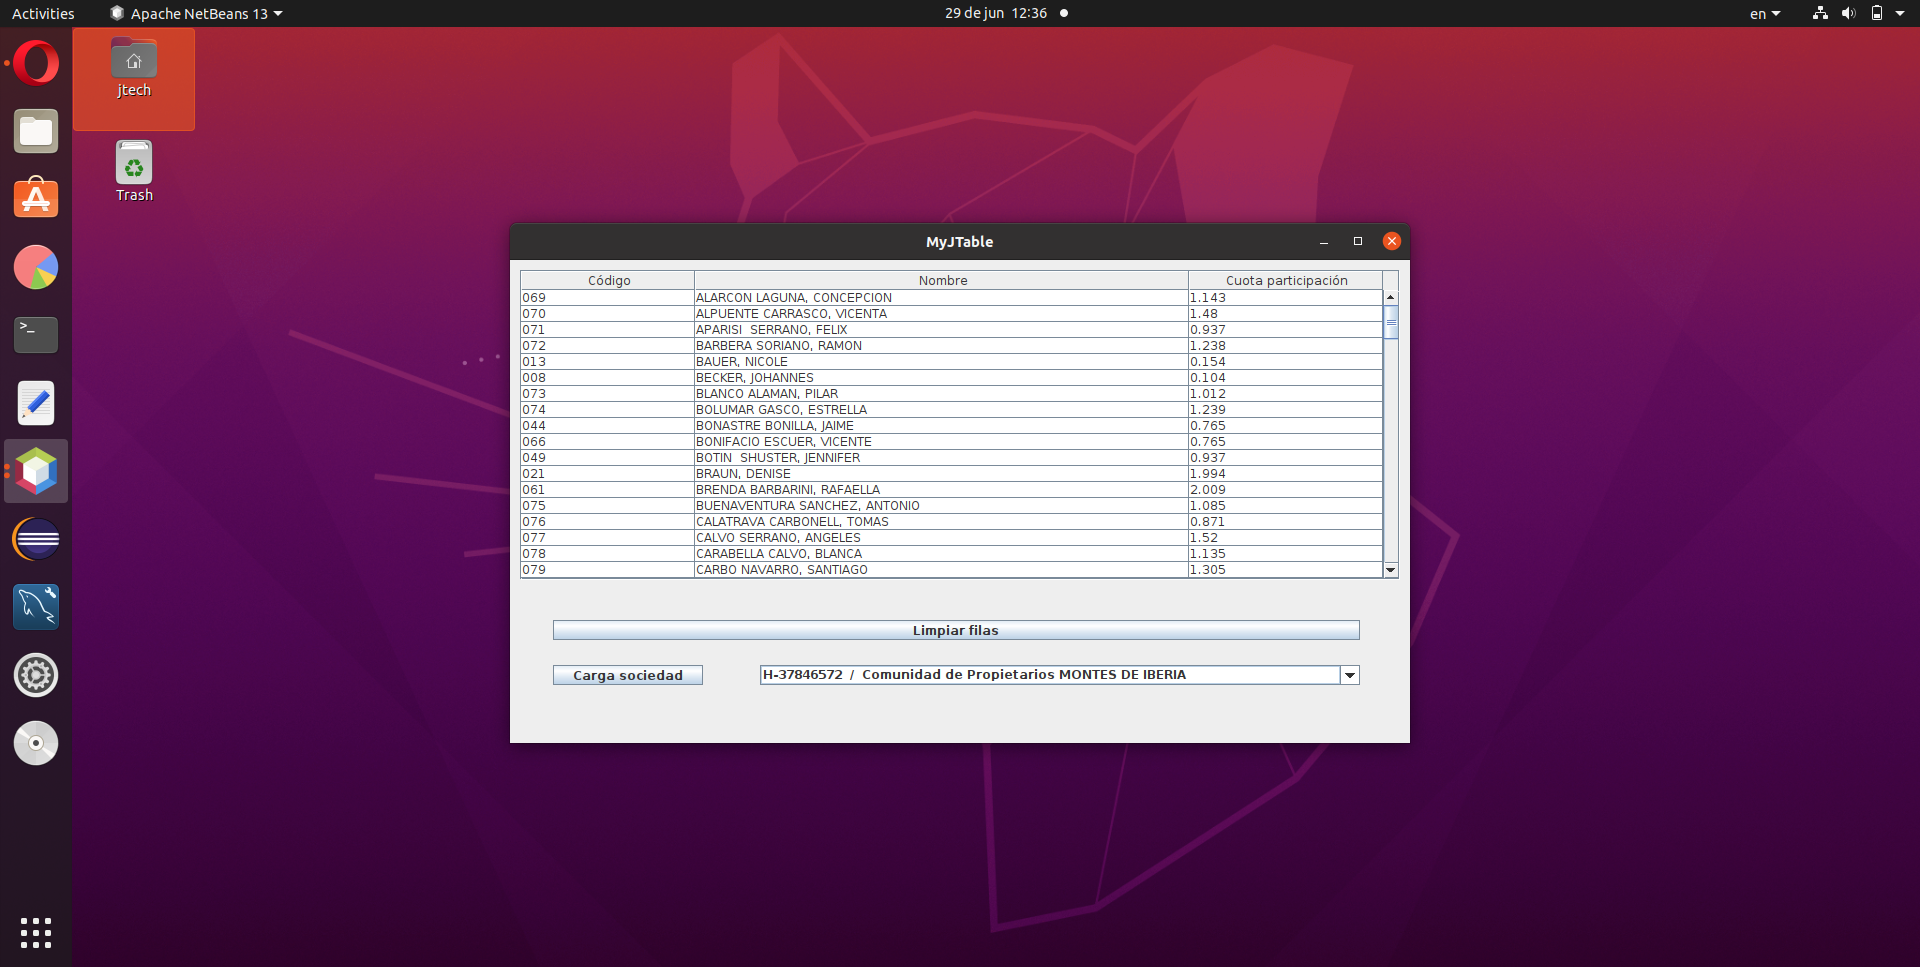
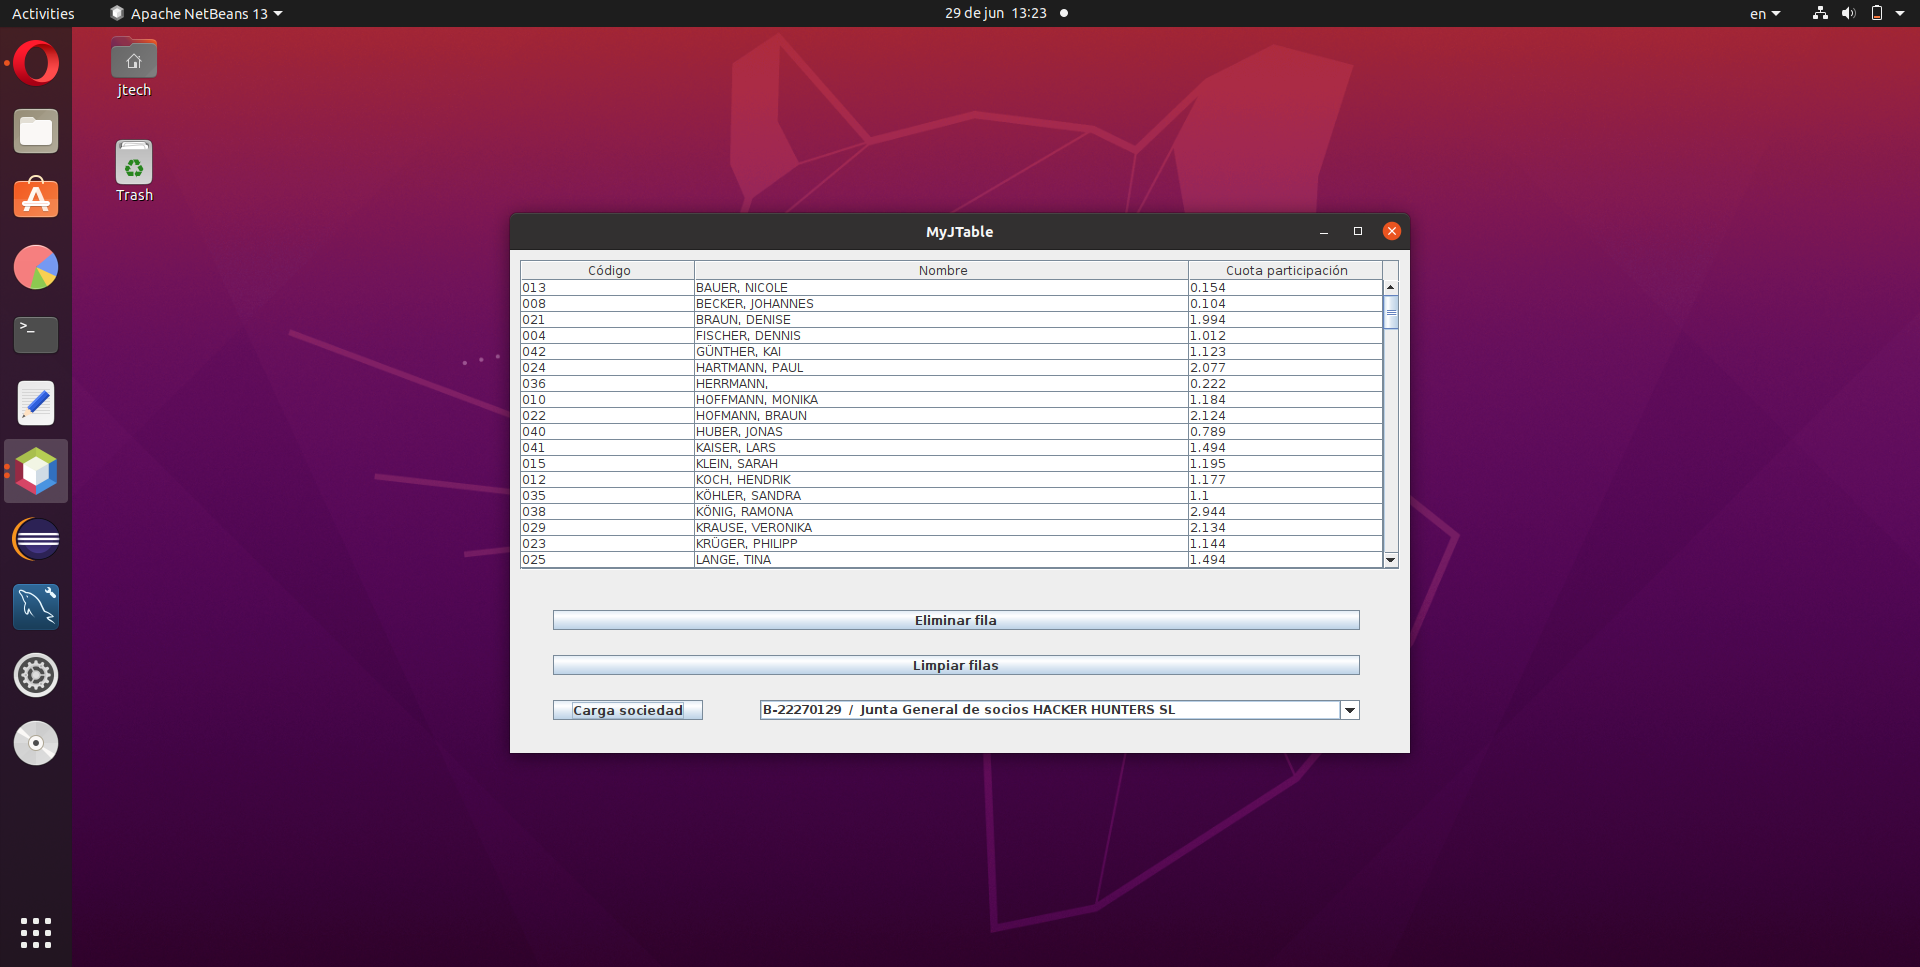
delete row

Changed region(s): [[0.25, 0.2172, 0.75, 0.8066], [0.0312, 0.031, 0.125, 0.1551]]

diff --git a/src/presentacion/MyJTable.java b/src/presentacion/MyJTable.java
@@ -39,7 +39,7 @@ public class MyJTable extends JFrame {
         try{
             contexto = new Contexto("usuario1", obtenerIP());
             repositorio = new RepositorioXML().cargar();
-            setSize(900, 520);
+            setSize(900, 540);
             setTitle("MyJTable");
             
             /*manual interface positioning*/
@@ -96,18 +96,23 @@ public class MyJTable extends JFrame {
         columna[2] = componentes.getjTable().getColumnModel().getColumn(2);
         columna[2].setPreferredWidth(50);
         
-        componentes.setBotonEliminarRegistros(new JButton("Limpiar filas"));
-        componentes.getBotonEliminarRegistros().setBounds(43, 360, 807, 20);
-        componentes.getBotonEliminarRegistros().addActionListener(gestorEventos);     // REGISTRO DE ESCUCHA DE EVENTO DE BOTON
-        add(componentes.getBotonEliminarRegistros());
+        componentes.setBotonEliminarFila(new JButton("Eliminar fila"));
+        componentes.getBotonEliminarFila().setBounds(43, 360, 807, 20);
+        componentes.getBotonEliminarFila().addActionListener(gestorEventos);     // REGISTRO DE ESCUCHA DE EVENTO DE BOTON
+        add(componentes.getBotonEliminarFila());
+        
+        componentes.setBotonLimpiarFilas(new JButton("Limpiar filas"));
+        componentes.getBotonLimpiarFilas().setBounds(43, 405, 807, 20);
+        componentes.getBotonLimpiarFilas().addActionListener(gestorEventos);     // REGISTRO DE ESCUCHA DE EVENTO DE BOTON
+        add(componentes.getBotonLimpiarFilas());
         
         componentes.setBotonCargaSociedad(new JButton("Carga sociedad"));
-        componentes.getBotonCargaSociedad().setBounds(43, 405, 150, 20);
+        componentes.getBotonCargaSociedad().setBounds(43, 450, 150, 20);
         componentes.getBotonCargaSociedad().addActionListener(gestorEventos);     // REGISTRO DE ESCUCHA DE EVENTO DE BOTON
         add(componentes.getBotonCargaSociedad());
         
         componentes.setSeleccionIdSociedad(new JComboBox());
-        componentes.getSeleccionIdSociedad().setBounds(250, 405, 600, 20);
+        componentes.getSeleccionIdSociedad().setBounds(250, 450, 600, 20);
         componentes.getSeleccionIdSociedad().setBackground(Color.white);
         add(componentes.getSeleccionIdSociedad());
         cargarComboSociedades(componentes);

diff --git a/src/presentacion/Componentes.java b/src/presentacion/Componentes.java
@@ -25,7 +25,8 @@ public class Componentes {
         private JComboBox seleccionIdSociedad;
         private MyJTable pantallaJTable;
         private JButton botonCargaSociedad;
-        private JButton botonEliminarRegistros;
+        private JButton botonLimpiarFilas;
+        private JButton botonEliminarFila;
 
     public JTable getjTable() {
         return jTable;
@@ -99,13 +100,22 @@ public class Componentes {
         this.botonCargaSociedad = botonCargaSociedad;
     }
 
-    public JButton getBotonEliminarRegistros() {
-        return botonEliminarRegistros;
+    public JButton getBotonLimpiarFilas() {
+        return botonLimpiarFilas;
     }
 
-    public void setBotonEliminarRegistros(JButton botonEliminarRegistros) {
-        this.botonEliminarRegistros = botonEliminarRegistros;
+    public void setBotonLimpiarFilas(JButton botonLimpiarFilas) {
+        this.botonLimpiarFilas = botonLimpiarFilas;
     }
+
+    public JButton getBotonEliminarFila() {
+        return botonEliminarFila;
+    }
+
+    public void setBotonEliminarFila(JButton botonEliminarFila) {
+        this.botonEliminarFila = botonEliminarFila;
+    }
+
     
 
     

diff --git a/src/presentacion/GestorEventos.java b/src/presentacion/GestorEventos.java
@@ -56,14 +56,22 @@ public class GestorEventos implements ActionListener {
                 }
              }
          }
-        else if (jButton == componentes.getBotonEliminarRegistros())
+        else if (jButton == componentes.getBotonLimpiarFilas())
         {
             try {
                 componentes.getModeloDatos().limpiarFilas(new TitularesNegocio().consultarTodos((BaseDatos)componentes.getRepositorio()[0]));
             } catch (Exception exception) {
                  new GestorExcepciones().gestionarExcepcion(exception, componentes.getContexto());
             }
-        }       
+        }
+        else if (jButton == componentes.getBotonEliminarFila())
+        {
+            try {
+                componentes.getModeloDatos().eliminarFila();
+            } catch (Exception exception) {
+                 new GestorExcepciones().gestionarExcepcion(exception, componentes.getContexto());
+            }
+        }
         else {JOptionPane.showMessageDialog(componentes.getPantallaJTable(), "Debe seleccionar y guardar previamente la sociedad");}                
     }            
     

diff --git a/src/presentacion/ModeloDatos.java b/src/presentacion/ModeloDatos.java
@@ -60,10 +60,18 @@ public class ModeloDatos extends AbstractTableModel{
 
       componentes.getjTable().repaint();
     }
+    
+    public void eliminarFila() {
+        
+        if (numeroFilas >= 1){
+            numeroFilas--;
+            fireTableRowsInserted(numeroFilas - 1, numeroFilas - 1);
+        }
+    }
       
     @Override
     public int getRowCount() {
-        return datos.length;
+        return numeroFilas;
     }
 
     @Override
